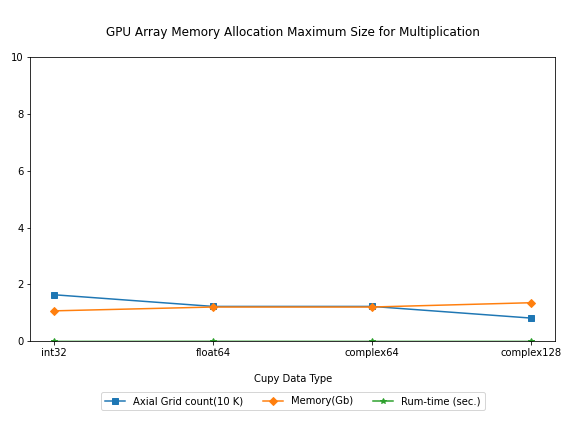
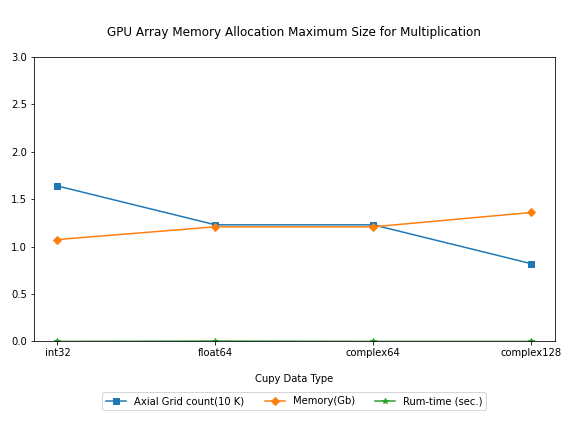
**

diff --git a/AMemoryTest.py b/AMemoryTest.py
@@ -1,5 +1,6 @@
 import numpy 
 import cupy
+import math
 from time import *
 from time import perf_counter
 from matplotlib import pyplot as plt
@@ -64,12 +65,11 @@ def test_array_memory( use_gpu , operation="", debug=0, verbose=0) :
                     arrays.append( a )
                 else :
                     a = np.zeros( (grid_count, grid_count), data_type )
+                    arrays.append( a )
                     
                     memory_size = a.nbytes
                     
-                    arrays.append( a )
                     b = np.zeros( (grid_count, grid_count), data_type )
-                    
                     arrays.append( b )
                     
                     c= a*b
@@ -109,13 +109,10 @@ def test_array_memory( use_gpu , operation="", debug=0, verbose=0) :
     y2 = numpy.array( memories )/1e9    
     y3 = numpy.array( elapsed_times )
     
-    ymax = ( max( numpy.max( y1 ), numpy.max( y2 ), numpy.max( y3 ) )//5 )
-    if ymax < 2 :
-        ymax = ymax*5
-    else :
-        ymax = (ymax + 1)*5
-    pass     
+    ymax = ( max( numpy.max( y1 ), numpy.max( y2 ), numpy.max( y3 ) ) )
     
+    ymax = int( ymax + 1.5 )
+        
     row_cnt = 1; col_cnt = 1
     fig, charts = plt.subplots( row_cnt, col_cnt, figsize=( 8*col_cnt, 6*row_cnt) )
     charts = charts.flatten() if row_cnt*col_cnt > 1 else [charts]
